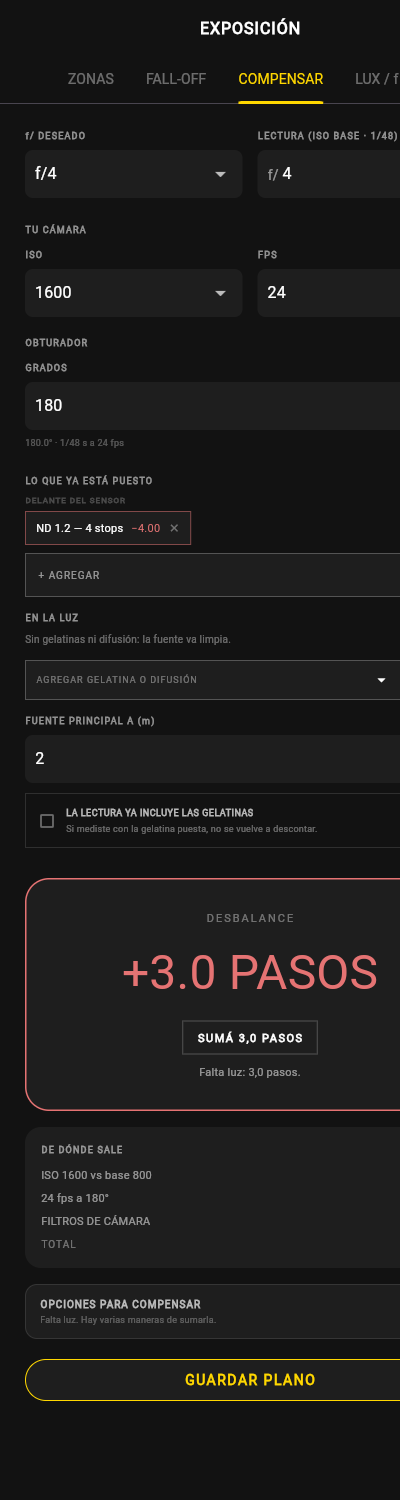
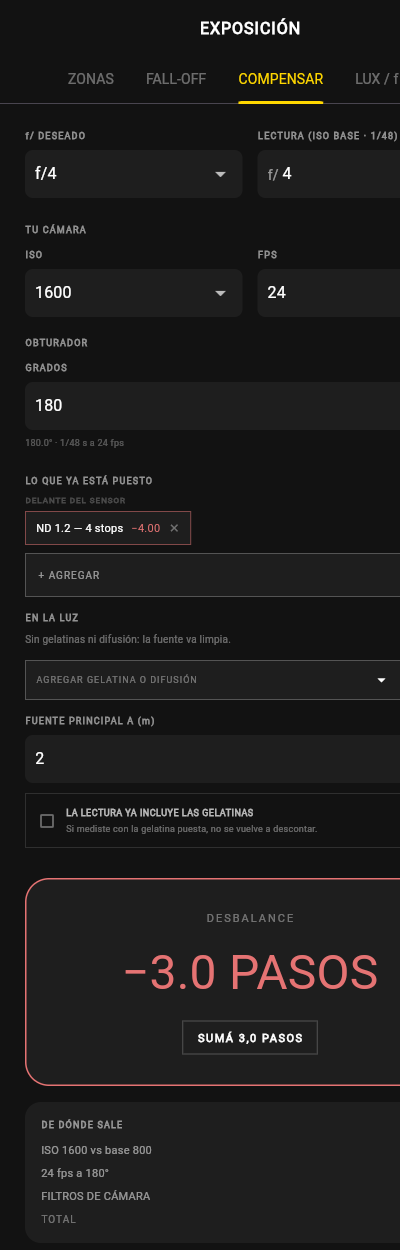
El numero dice como esta la imagen, no lo que hay que hacer
Opcion B en todas las tarjetas de resultado:
- Negativo = la imagen esta abajo (falta luz), en rojo, y abajo la accion SUMAR
- Positivo = la imagen esta arriba (sobra luz), en ambar, y la accion QUITAR
- Zonas pasa al mismo convenio que Compensar (antes decia lo contrario)
- Fall-off usa la misma tarjeta con su propio sentido (la luz cambia)
- Version 1.2.0

diff --git a/lib/presentation/exposure_screen.dart b/lib/presentation/exposure_screen.dart
@@ -157,8 +157,8 @@ class _ZoneSystemScreenState extends State<ZoneSystemScreen> {
               ),
               const SizedBox(height: 30),
               _resultCard(
-                stops: reading.correctionStops,
-                title: 'INSTRUCCIÓN PARA ILUMINACIÓN',
+                deviation: -reading.correctionStops,
+                title: 'CÓMO ESTÁ LA ESCENA',
                 subtitle: _zoneSubtitle(reading, nd),
               ),
               if (nd != null) ...[
@@ -284,8 +284,8 @@ class _ISTState extends State<InverseSquareTool> {
           ),
           const SizedBox(height: 25),
           _resultCard(
-            stops: result.stops,
-            title: 'PÉRDIDA / GANANCIA',
+            deviation: result.stops,
+            title: 'LA LUZ CAMBIA',
             subtitle: isLoss
                 ? 'La fuente pierde ${result.stops.abs().toStringAsFixed(1)} stops al alejarse. '
                     'Abrí ese diafragma, subí la intensidad o acercá la fuente.'
@@ -536,7 +536,7 @@ class _ExposureCompensationScreenState extends State<ExposureCompensationScreen>
               _meterGelToggle(shot),
               const SizedBox(height: 30),
               _resultCard(
-                stops: result.stops,
+                deviation: -result.stops,
                 title: 'DESBALANCE',
               ),
               const SizedBox(height: 16),
@@ -1189,17 +1189,20 @@ Widget _legendDot(Color color, String label) {
 }
 
 Widget _resultCard({
-  required double stops,
+  /// Cuánto está desviada la imagen: **negativo = abajo** (falta luz),
+  /// **positivo = arriba** (sobra luz). La acción es siempre al revés.
+  required double deviation,
   required String title,
   String? subtitle,
-  String? ndHint,
 }) {
-  final balanced = stops.abs() < 0.05;
+  final balanced = deviation.abs() < 0.05;
   // Rojo cuando falta luz: es el caso que obliga a sumar unidades o potencia.
   // Ámbar cuando sobra: se resuelve cerrando o con un filtro.
   final accent = balanced
       ? OnSetColors.ok
-      : (stops > 0 ? OnSetColors.danger : OnSetColors.brand);
+      : (deviation < 0 ? OnSetColors.danger : OnSetColors.brand);
+  final amount = deviation.abs().toStringAsFixed(1).replaceAll('.', ',');
+  final action = deviation < 0 ? 'SUMÁ $amount PASOS' : 'QUITÁ $amount PASOS';
 
   return Container(
     width: double.infinity,
@@ -1217,7 +1220,9 @@ Widget _resultCard({
         ),
         const SizedBox(height: 12),
         Text(
-          balanced ? 'OK' : '${stops > 0 ? '+' : ''}${stops.toStringAsFixed(1)} PASOS',
+          balanced
+              ? 'OK'
+              : '${deviation > 0 ? '+' : '−'}${deviation.abs().toStringAsFixed(1)} PASOS',
           style: TextStyle(fontSize: 48, fontWeight: FontWeight.w300, color: accent),
         ),
         if (!balanced) ...[
@@ -1228,9 +1233,7 @@ Widget _resultCard({
               border: Border.all(color: Colors.white24),
             ),
             child: Text(
-              stops > 0
-                  ? 'SUMÁ ${stops.abs().toStringAsFixed(1).replaceAll('.', ',')} PASOS'
-                  : 'QUITÁ ${stops.abs().toStringAsFixed(1).replaceAll('.', ',')} PASOS',
+              action,
               style: const TextStyle(
                 fontSize: 11,
                 letterSpacing: 1.5,
@@ -1246,24 +1249,6 @@ Widget _resultCard({
             subtitle,
             textAlign: TextAlign.center,
             style: const TextStyle(fontSize: 11, color: Colors.white54, height: 1.4),
-          ),
-        ],
-        if (ndHint != null) ...[
-          const SizedBox(height: 12),
-          Container(
-            padding: const EdgeInsets.symmetric(horizontal: 14, vertical: 8),
-            decoration: BoxDecoration(
-              border: Border.all(color: OnSetColors.danger.withValues(alpha: 0.6)),
-            ),
-            child: Text(
-              'O PONÉ $ndHint',
-              style: const TextStyle(
-                fontSize: 11,
-                fontWeight: FontWeight.bold,
-                letterSpacing: 1,
-                color: OnSetColors.danger,
-              ),
-            ),
           ),
         ],
       ],
